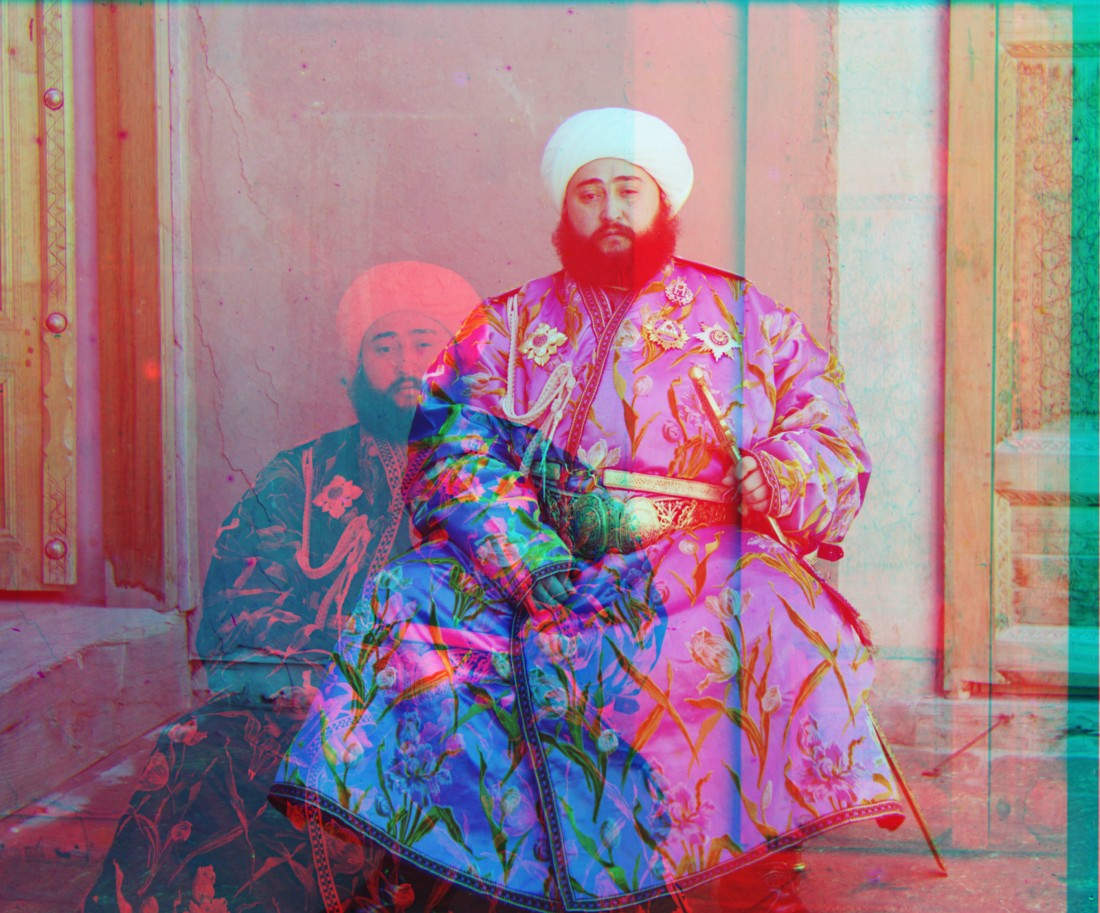
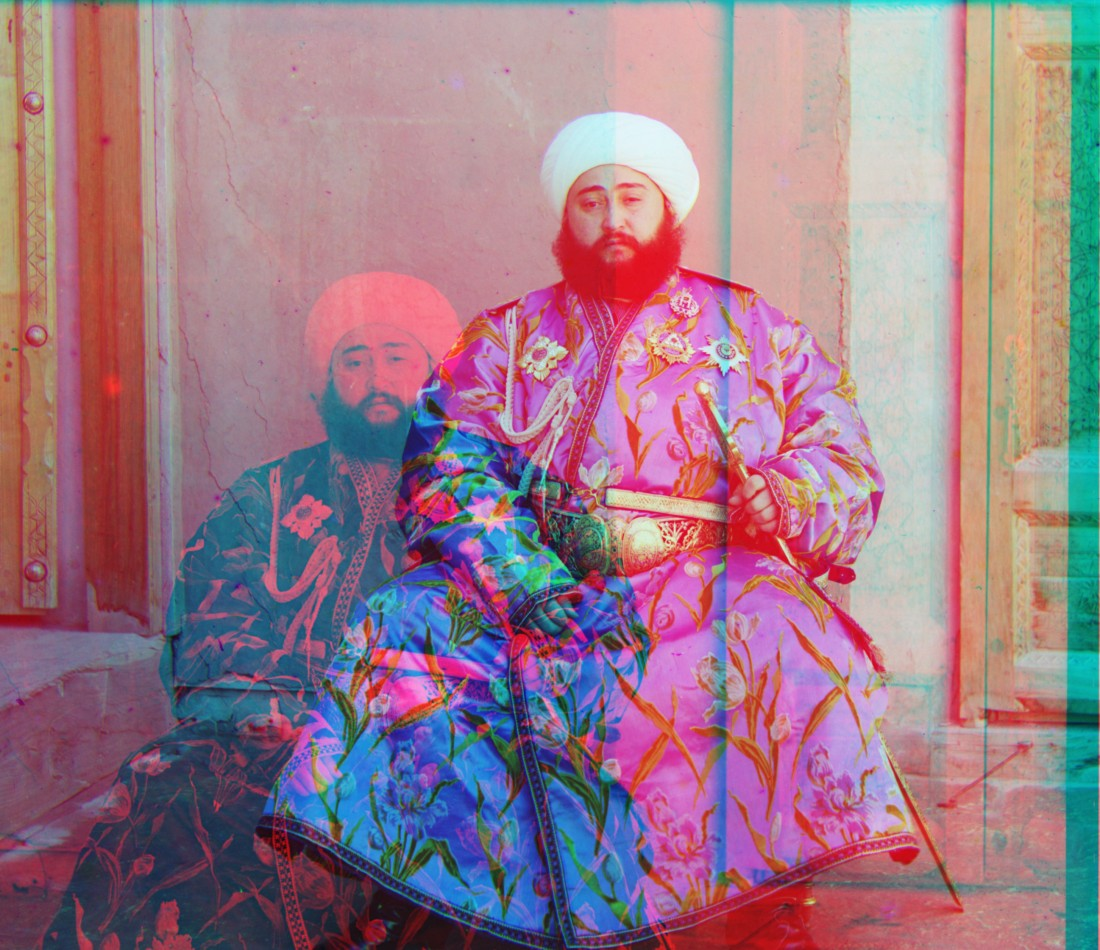
Project 1: Gaussian-blur downsampling; drop CNN mention
Switch downsize to Gaussian blur + decimate (the anti-aliasing method from
lecture); offsets are unchanged. Reword the Sobel paragraph around kernels
and pixel gradients instead of CNNs.

diff --git a/cs180/project1/index.html b/cs180/project1/index.html
@@ -85,17 +85,17 @@
 </p>
 <p>
   Currently, I looked at the Van Gogh test video in the lecture, and I think the method
-  of directly decimating pixels isn't the most ideal. I looked at the function definition
-  and decided to use <code>cv.INTER_AREA</code>, which we're using right now, because it
-  takes an average and it's generally more reasonable when computing things like
-  alignment — colors or blobs and their general distribution are reasonable things to be
-  averaged. We use the following downsample method:
+  of directly decimating pixels isn't the most ideal, because it aliases. I learned in the
+  lecture that Gaussian smoothing and then cutting is the anti-aliasing technique, so I
+  used it here: blur the image with a Gaussian to wipe out the fine detail that can't
+  survive at the smaller size, then cut out every nth pixel. We use the following
+  downsample method:
 </p>
 <pre><code>def downsize(img, factor):
     if factor == 1:
         return img
-    h, w = img.shape
-    return cv.resize(img, (w // factor, h // factor), interpolation=cv.INTER_AREA)</code></pre>
+    blurred = cv.GaussianBlur(img, (0, 0), factor)
+    return blurred[::factor, ::factor]</code></pre>
 <p>
   2. With the current scale, run naive align as described above to extract the current
   best offset under the current scale. 3. We take the current scale and then upsample
@@ -216,12 +216,13 @@
 </figure>
 <p>
   I understand Sobel roughly as designing a filter to slide across the image to produce
-  different contrasting regions. The contrasting regions are generated from this kernel,
-  which is very similar to the one you use in a convolutional neural network. However,
-  this kernel is specially designed to detect a change, so it has a negative on one side
-  and a positive on the other — negative on the left and positive on the right. That way
-  we can detect a change in X, and the Y kernel detects a change in Y, which we use to
-  find the different edges.
+  different contrasting regions. The contrasting regions are generated from this kernel —
+  a small grid of weights that slides over the image and, at each spot, combines the
+  neighboring pixels into one number. This kernel is specially designed to detect a
+  change, the gradient of the pixels, so it has a negative on one side and a positive on
+  the other — negative on the left and positive on the right. That way we can detect a
+  change in X, and the Y kernel detects a change in Y, which we use to find the different
+  edges.
 </p>
 <p>
   This makes sense in terms of a dot product: sliding the kernel over a patch and summing
